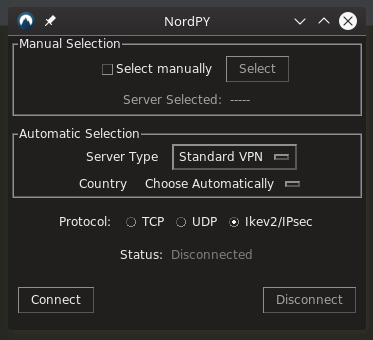
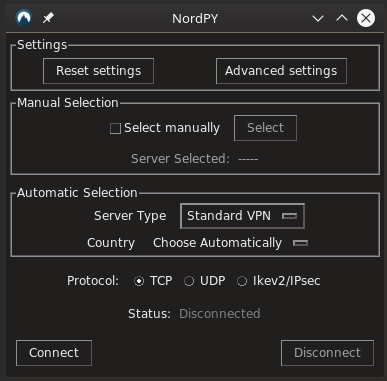
updated readme

diff --git a/README.md b/README.md
@@ -20,6 +20,9 @@ then run install.sh
 
 ## Usage
 Open the application, select your preferred server type (also manually) and protocol and just press connect. Once you are connected you can even close the application and reopen it when you want to disconnect the VPN.
+If the size of the window does not fit entirely the gui components change the scale factor in the advanced settings.
+
+<b>Note</b>: The button "Reset settings" resets only the settings of the connection (each time a VPN connection is established the used options are saved and restored at the next start).
 
 #### Previews
 ![Alt text](media/screenshots/screen01.png?raw=true "Preview")  
